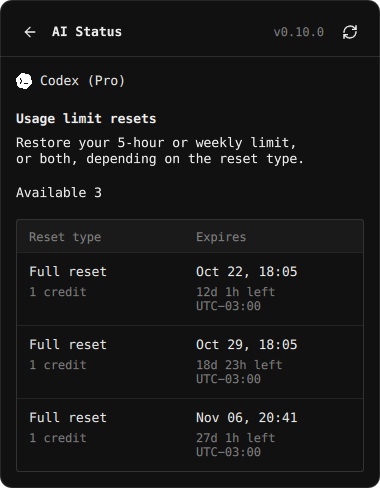
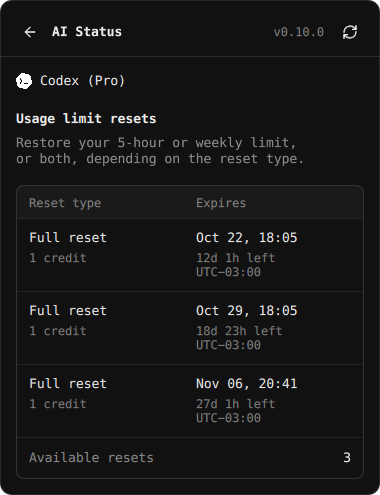
fix(ui): align reset table corners, dividers and totals

diff --git a/packages/lib/quickshell/ResetCreditsPage.qml b/packages/lib/quickshell/ResetCreditsPage.qml
@@ -1,4 +1,5 @@
 import QtQuick
+import QtQuick.Shapes
 import qs.Commons
 import "." as Plugin
 import "StableList.js" as StableList
@@ -50,19 +51,15 @@ Column {
     Column {
         width: parent.width
         spacing: Style.space(8)
-        Label { text: "Usage limit resets"; font.bold: true }
+        Label { objectName: "reset-section-title"; text: "Usage limit resets"; font.bold: true }
         Label {
+            objectName: "reset-explanation"
             width: parent.width
+            opacity: 0.55
             text: root.provider && root.provider.id === "codex"
                 ? "Restore your 5-hour or weekly limit,\nor both, depending on the reset type."
                 : "Restore eligible usage limits.\nCredits expire on the dates below."
         }
-    }
-    Label {
-        objectName: "reset-available"
-        width: parent.width
-        text: "Available " + root.inventory.available
-        visible: root.inventory.available > 0
     }
     Rectangle {
         id: resetTable
@@ -71,7 +68,7 @@ Column {
         implicitHeight: table.implicitHeight + 2
         color: "transparent"
         border.width: 1
-        radius: Style.space(3)
+        radius: Style.space(8)
         border.color: Qt.rgba(root.foreground.r, root.foreground.g, root.foreground.b, 0.15)
         visible: root.inventory.available > 0
         Column {
@@ -79,12 +76,32 @@ Column {
             x: 1
             y: 1
             width: parent.width - 2
-            Rectangle {
+            Item {
+                id: columnHeader
                 objectName: "reset-column-header"
                 width: parent.width
                 height: columnHeadings.implicitHeight + Style.space(18)
-                color: Qt.rgba(root.foreground.r, root.foreground.g, root.foreground.b, 0.04)
-                radius: Math.max(0, resetTable.radius - 1)
+                readonly property color color: Qt.rgba(root.foreground.r, root.foreground.g, root.foreground.b, 0.04)
+                readonly property real radius: Math.max(0, resetTable.radius - 1)
+                Shape {
+                    anchors.fill: parent
+                    antialiasing: true
+                    layer.enabled: visible
+                    layer.samples: 4
+                    layer.smooth: true
+                    ShapePath {
+                        strokeColor: "transparent"
+                        fillColor: columnHeader.color
+                        startX: 0
+                        startY: columnHeader.radius
+                        PathLine { x: 0; y: columnHeader.height }
+                        PathLine { x: columnHeader.width; y: columnHeader.height }
+                        PathLine { x: columnHeader.width; y: columnHeader.radius }
+                        PathQuad { x: columnHeader.width - columnHeader.radius; y: 0; controlX: columnHeader.width; controlY: 0 }
+                        PathLine { x: columnHeader.radius; y: 0 }
+                        PathQuad { x: 0; y: columnHeader.radius; controlX: 0; controlY: 0 }
+                    }
+                }
                 Row {
                     id: columnHeadings
                     x: Style.space(12)
@@ -123,6 +140,35 @@ Column {
                         spacing: Style.space(5)
                         Label { width: parent.width; text: entry.expires }
                         Secondary { width: parent.width; text: entry.remaining + (entry.timezone ? "\n" + entry.timezone : "") }
+                    }
+                }
+            }
+            Item {
+                objectName: "reset-table-footer"
+                width: table.width
+                implicitHeight: Math.max(availableLabel.implicitHeight, availableValue.implicitHeight) + Style.space(24) + 1
+                Rectangle {
+                    width: parent.width
+                    height: 1
+                    color: Qt.rgba(root.foreground.r, root.foreground.g, root.foreground.b, 0.09)
+                }
+                Row {
+                    x: Style.space(12)
+                    y: Style.space(12) + 1
+                    width: parent.width - x * 2
+                    spacing: Style.space(12)
+                    Label {
+                        id: availableLabel
+                        objectName: "reset-available-label"
+                        width: Math.max(0, parent.width - availableValue.implicitWidth - parent.spacing)
+                        text: "Available resets"
+                        opacity: 0.55
+                    }
+                    Label {
+                        id: availableValue
+                        objectName: "reset-available"
+                        text: String(root.inventory.available)
+                        font.weight: Font.Medium
                     }
                 }
             }

diff --git a/packages/lib/tests/qml/tst_Pages.qml b/packages/lib/tests/qml/tst_Pages.qml
@@ -389,7 +389,7 @@ Item {
         }
         function test_reset_page_matches_windows_and_updates_without_selection_changes() {
             const snapshot = JSON.parse(JSON.stringify(Plugin.Model.snapshot))
-            snapshot.providers[1].resetCredits = {available: 2, undetailed: 1, rows: [
+            snapshot.providers[1].resetCredits = {available: 5, undetailed: 3, rows: [
                 {title: "Full reset", count: 1, expires: "Oct 22, 18:05", remaining: "12d 2h left", timezone: "UTC-03:00"},
                 {title: "Reset credit", count: 1, expires: "Not provided", remaining: "", timezone: ""}
             ]}
@@ -400,17 +400,30 @@ Item {
             const available = findChild(credits, "reset-available")
             const table = findChild(credits, "reset-table")
             const header = findChild(credits, "reset-column-header")
-            compare(available.text, "Available 2")
+            const footer = findChild(table, "reset-table-footer")
+            compare(available.text, "5")
             verify(table.visible)
-            compare(available.parent, credits)
-            verify(available.y + available.height < table.y)
-            verify(findChild(table, "reset-available") === null)
+            compare(table.radius, 8)
+            compare(findChild(footer, "reset-available"), available)
+            compare(findChild(footer, "reset-available-label").text, "Available resets")
+            compare(available.font.weight, Font.Medium)
+            verify(footer.y > header.y + header.height)
+            verify(findChild(header, "reset-available") === null)
             compare(findChild(header, "reset-type-header").text, "Reset type")
             compare(findChild(header, "reset-expires-header").text, "Expires")
             compare(header.color, Qt.rgba(credits.foreground.r, credits.foreground.g, credits.foreground.b, 0.04))
-            compare(header.children.length, 1)
-            verify(header.radius > 0)
+            compare(header.radius, 7)
+            const explanation = findChild(credits, "reset-explanation")
+            compare(explanation.color, findChild(credits, "reset-section-title").color)
+            compare(explanation.opacity, 0.55)
+            compare(explanation.font.pixelSize, 13)
             compare(Plugin.Model.chosen, null)
+            const undetailed = JSON.parse(JSON.stringify(snapshot))
+            undetailed.providers[1].resetCredits = {available: 3, undetailed: 3, rows: []}
+            Plugin.Model.snapshot = undetailed
+            verify(table.visible)
+            verify(footer.visible)
+            compare(available.text, "3")
             const empty = JSON.parse(JSON.stringify(snapshot))
             empty.providers[1].resetCredits = null
             Plugin.Model.snapshot = empty

diff --git a/packages/lib/macos/AIStatus.swift b/packages/lib/macos/AIStatus.swift
@@ -841,9 +841,8 @@ struct ResetCreditsPage: View {
                      "Restore eligible usage limits.\nCredits expire on the dates below.")
             }
             if let credits = provider.resetCredits, credits.available > 0 {
-                Text("Available \(credits.available)").foregroundColor(Palette.bright)
                 VStack(alignment: .leading, spacing: 0) {
-                    HStack { Text("Reset type").frame(maxWidth: .infinity, alignment: .leading); Text("Expires").frame(maxWidth: .infinity, alignment: .leading) }
+                    HStack(spacing: 12) { Text("Reset type").frame(maxWidth: .infinity, alignment: .leading); Text("Expires").frame(maxWidth: .infinity, alignment: .leading) }
                         .font(.custom("GeistMono-Regular", size: 11)).padding(12)
                         .background(Palette.bright.opacity(0.04))
                     ForEach(Array(credits.rows.enumerated()), id: \.offset) { _, row in
@@ -859,6 +858,12 @@ struct ResetCreditsPage: View {
                             }.frame(maxWidth: .infinity, alignment: .leading)
                         }.padding(12)
                     }
+                    Divider()
+                    HStack(spacing: 12) {
+                        Text("Available resets").foregroundColor(Palette.dim)
+                        Spacer()
+                        Text("\(credits.available)").foregroundColor(Palette.bright).fontWeight(.medium)
+                    }.padding(12)
                 }.clipShape(RoundedRectangle(cornerRadius: 8))
                     .overlay(RoundedRectangle(cornerRadius: 8).stroke(Palette.border))
                 if credits.undetailed > 0 { Text("Some reset details haven't been provided yet.").font(.custom("GeistMono-Regular", size: 11)) }

diff --git a/packages/lib/tests/qml/tst_Panel.qml b/packages/lib/tests/qml/tst_Panel.qml
@@ -190,7 +190,7 @@ Item {
             const heading = findChild(panel, "reset-provider-heading")
             verify(!heading.activeFocusOnTab)
             verify(findChild(panel, "reset-back") === null)
-            verify(findChild(panel, "reset-table").radius > 0)
+            compare(findChild(panel, "reset-table").radius, 8)
             mouseClick(heading)
             compare(panel.resetProvider.id, "codex")
             compare(JSON.stringify(Plugin.Model.snapshot.selected), selected)

diff --git a/packages/lib/src/core/tray.py b/packages/lib/src/core/tray.py
@@ -43,10 +43,11 @@ QAbstractButton { border: none; background: transparent; text-align: left; }
 QAbstractButton:hover, QAbstractButton:focus { background: #1c1c1c; border-radius: 8px; }
 QWidget#creditTable { border: 1px solid #262626; border-radius: 8px; }
 QWidget#creditTableHeader {
-    background: rgba(255, 255, 255, 10); border-bottom: 1px solid #262626;
+    background: rgba(255, 255, 255, 10);
     border-top-left-radius: 7px; border-top-right-radius: 7px;
 }
 QWidget#creditRow { border-top: 1px solid #262626; }
+QWidget#creditTableFooter { border-top: 1px solid #262626; background: transparent; }
 QScrollArea { border: none; background: transparent; }
 QScrollBar:vertical { background: transparent; width: 5px; margin: 6px 0; }
 QScrollBar::handle:vertical { background: #303030; border-radius: 2px; min-height: 24px; }
@@ -331,8 +332,6 @@ class ResetCreditsView(QWidget):
         self.explanation.setWordWrap(True)
         intro.addWidget(self.explanation)
         layout.addLayout(intro)
-        self.available = plain_label("", "#dddddd")
-        layout.addWidget(self.available)
         self.table = QWidget()
         self.table.setObjectName("creditTable")
         table_layout = QVBoxLayout(self.table)
@@ -352,6 +351,19 @@ class ResetCreditsView(QWidget):
         self.rows_layout.setContentsMargins(0, 0, 0, 0)
         self.rows_layout.setSpacing(0)
         table_layout.addWidget(self.rows_widget)
+        self.total_footer = QWidget()
+        self.total_footer.setObjectName("creditTableFooter")
+        footer_layout = QHBoxLayout(self.total_footer)
+        footer_layout.setContentsMargins(12, 12, 12, 12)
+        footer_layout.setSpacing(12)
+        self.available_label = plain_label("Available resets", "#888888")
+        self.available_label.setWordWrap(True)
+        footer_layout.addWidget(self.available_label, 1)
+        self.available = plain_label("", "#eeeeee")
+        self.available.setStyleSheet(self.available.styleSheet() + "font-weight: 500;")
+        self.available.setAlignment(Qt.AlignmentFlag.AlignRight | Qt.AlignmentFlag.AlignVCenter)
+        footer_layout.addWidget(self.available)
+        table_layout.addWidget(self.total_footer)
         layout.addWidget(self.table)
         self.empty = plain_label("No reset credits available.")
         self.empty.setWordWrap(True)
@@ -380,7 +392,7 @@ class ResetCreditsView(QWidget):
         self.cached_label.setVisible(bool(entry.get("_cached")))
         self.cached_label.setToolTip(entry.get("_error", "Unable to refresh"))
         data = reset_credits.available_credits(entry.get("reset_credits"))
-        self.available.setText(f"Available {data['available']}")
+        self.available.setText(str(data["available"]))
         self.table.setVisible(bool(data["available"]))
         self.empty.setVisible(not data["available"])
         self.notice.setText("Some reset details haven't been provided yet." if data["undetailed"] else "")

diff --git a/packages/lib/tests/test_tray.py b/packages/lib/tests/test_tray.py
@@ -583,8 +583,10 @@ class DesktopTests(IsolatedState):
         self.assertEqual(self.dashboard.reset_provider, ("codex", 0))
         self.assertIs(self.dashboard.pages.currentWidget(), self.dashboard.credits_scroll)
         view = self.dashboard.credits_view
-        self.assertEqual(view.available.text(), "Available 2")
-        self.assertIs(view.available.parentWidget(), view)
+        self.assertEqual(view.available.text(), "2")
+        self.assertEqual(view.available_label.text(), "Available resets")
+        self.assertIs(view.available.parentWidget(), view.total_footer)
+        self.assertTrue(view.table.isAncestorOf(view.available))
         header = view.table.findChild(tray.QWidget, "creditTableHeader")
         self.assertEqual([label.text() for label in header.findChildren(QLabel)], ["Reset type", "Expires"])
         text = "\n".join(label.text() for label in self.dashboard.credits_view.findChildren(QLabel))
@@ -594,7 +596,7 @@ class DesktopTests(IsolatedState):
         self.assertEqual(state.load_selected(), selected)
         self.dashboard.data["codex"][0]["reset_credits"]["available"] = 0
         self.dashboard.draw()
-        self.assertEqual(self.dashboard.credits_view.available.text(), "Available 0")
+        self.assertEqual(self.dashboard.credits_view.available.text(), "0")
         self.assertTrue(self.dashboard.credits_view.table.isHidden())
         self.assertFalse(self.dashboard.credits_view.empty.isHidden())
         self.assertFalse(self.dashboard.back_button.isHidden())
